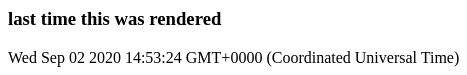
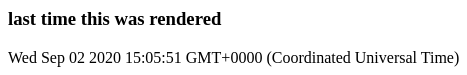
Updated markdown files

Changed region(s): [[0.2698, 0.6933, 0.3897, 0.8533]]

diff --git a/examples/javascript.md b/examples/javascript.md
@@ -17,14 +17,14 @@ console.table(table);
 ``` markdown-code-runner
 the javascript code is run in node
 it can do maths
-1046.0494640133365
+13348.048106477694
 and can render a table
 ┌─────────┬──────────┬───────┐
 │ (index) │   name   │ yummy │
 ├─────────┼──────────┼───────┤
 │    0    │ 'chips'  │   8   │
-│    1    │ 'pizza'  │   8   │
-│    2    │ 'burger' │   0   │
+│    1    │ 'pizza'  │   3   │
+│    2    │ 'burger' │   7   │
 └─────────┴──────────┴───────┘
 
 ```
@@ -51,6 +51,6 @@ fetch('https://api.kanye.rest/')
 
 ``` markdown-code-runner
 Kanye West quote:
-2024
+I make awesome decisions in bike stores!!!
 
 ```

diff --git a/examples/bash.md b/examples/bash.md
@@ -9,9 +9,9 @@ echo date: $(date)
 ```
 
 ``` markdown-code-runner
-hostname: fv-az183
+hostname: fv-az174
 shell: /bin/bash
 ls: LICENSE README.4.png README.md action.yml dist examples node_modules package.json setup-and-run.js src tsconfig.json yarn.lock
-date: Wed Sep 2 14:52:15 UTC 2020
+date: Wed Sep 2 15:04:32 UTC 2020
 
 ```
